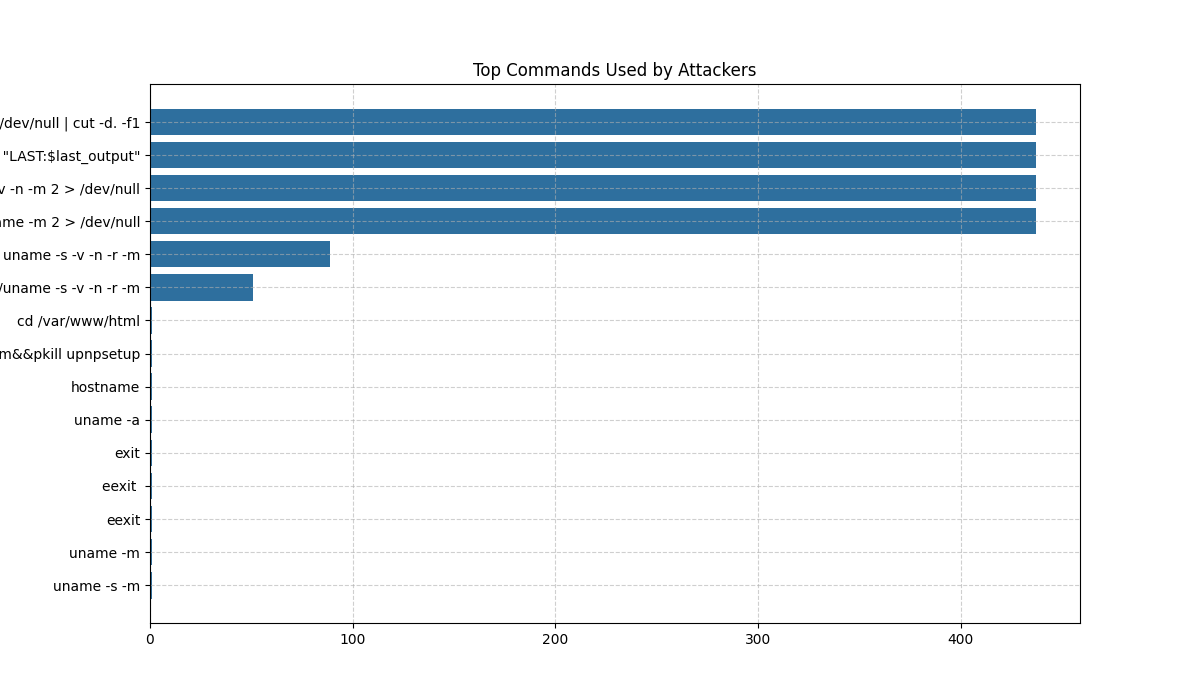
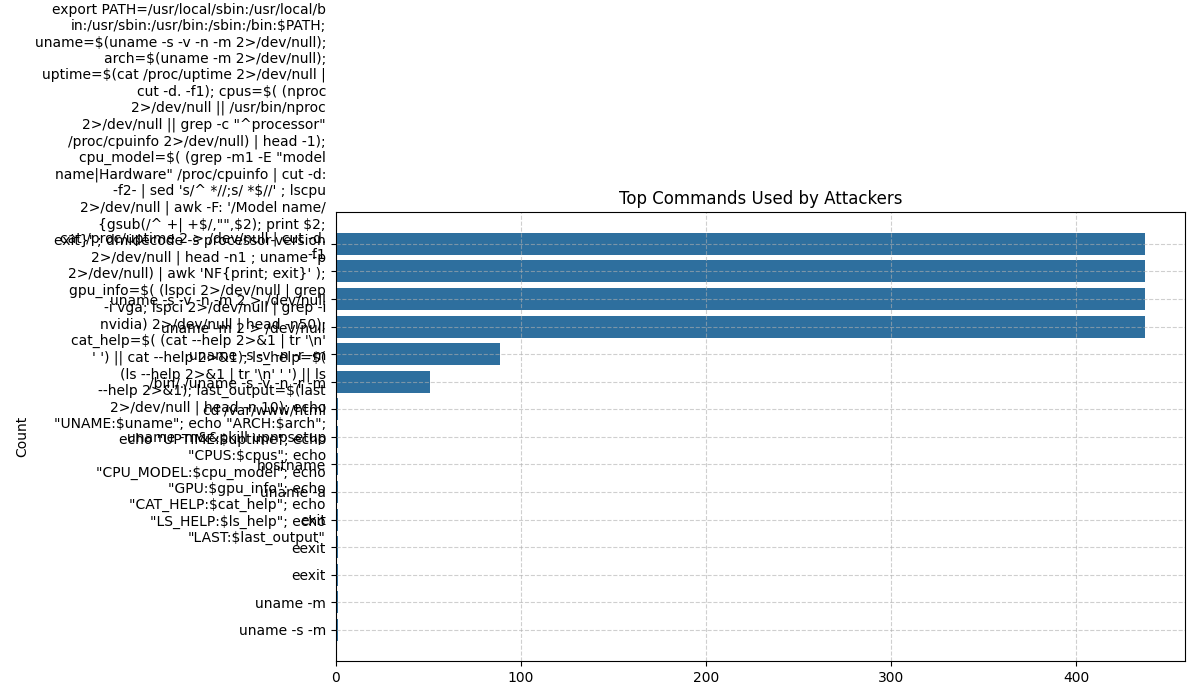
fix command chart readability (horizontal)

diff --git a/analyze.py b/analyze.py
@@ -1,5 +1,9 @@
 import pandas as pd
 import matplotlib.pyplot as plt
+import textwrap
+
+# ---------- FIX: disable math parsing ----------
+plt.rcParams['text.usetex'] = False
 
 # ---------- GLOBAL STYLE ----------
 plt.style.use('default')
@@ -15,7 +19,7 @@ def setup_plot(title, xlabel="", ylabel=""):
 df = pd.read_csv("csv/all_logs.csv")
 
 # ---------- TIMELINE ----------
-df['timestamp'] = pd.to_datetime(df['timestamp'])
+df['timestamp'] = pd.to_datetime(df['timestamp'], errors='coerce')
 df['hour'] = df['timestamp'].dt.hour
 
 timeline = df['hour'].value_counts().sort_index()
@@ -28,13 +32,20 @@ plt.savefig("images/timeline.png")
 plt.close()
 
 
-# ---------- TOP COMMANDS (FIXED) ----------
+# ---------- TOP COMMANDS (FINAL FIXED) ----------
 top_commands = df['command'].value_counts().head(15)[::-1]
 
 setup_plot("Top Commands Used by Attackers", "", "Count")
 
+# 🔥 escape $ and wrap text
+labels = [cmd.replace('$', r'\$') for cmd in top_commands.index]
+labels = [textwrap.fill(cmd, 40) for cmd in labels]
+
 plt.barh(range(len(top_commands)), top_commands.values, color='#2E6F9E')
-plt.yticks(range(len(top_commands)), top_commands.index)
+plt.yticks(range(len(labels)), labels)
+
+# 🔥 fix left spacing
+plt.subplots_adjust(left=0.4)
 
 plt.tight_layout()
 plt.savefig("images/commands.png")
@@ -81,4 +92,4 @@ plt.savefig("images/countries.png")
 plt.close()
 
 
-print("✅ All charts styled perfectly!")
+print("✅ All charts generated successfully!")
